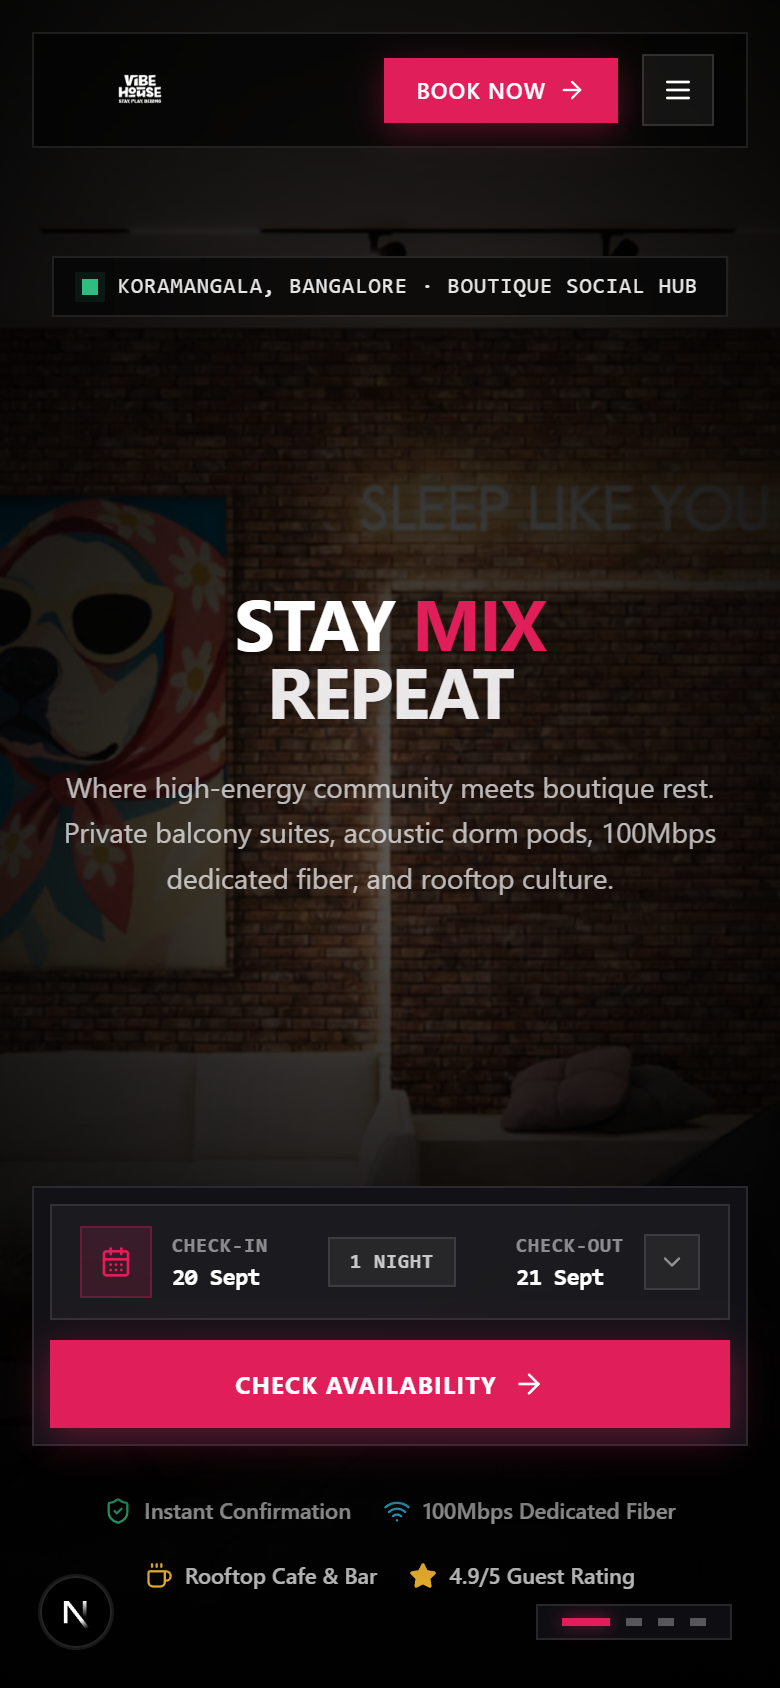
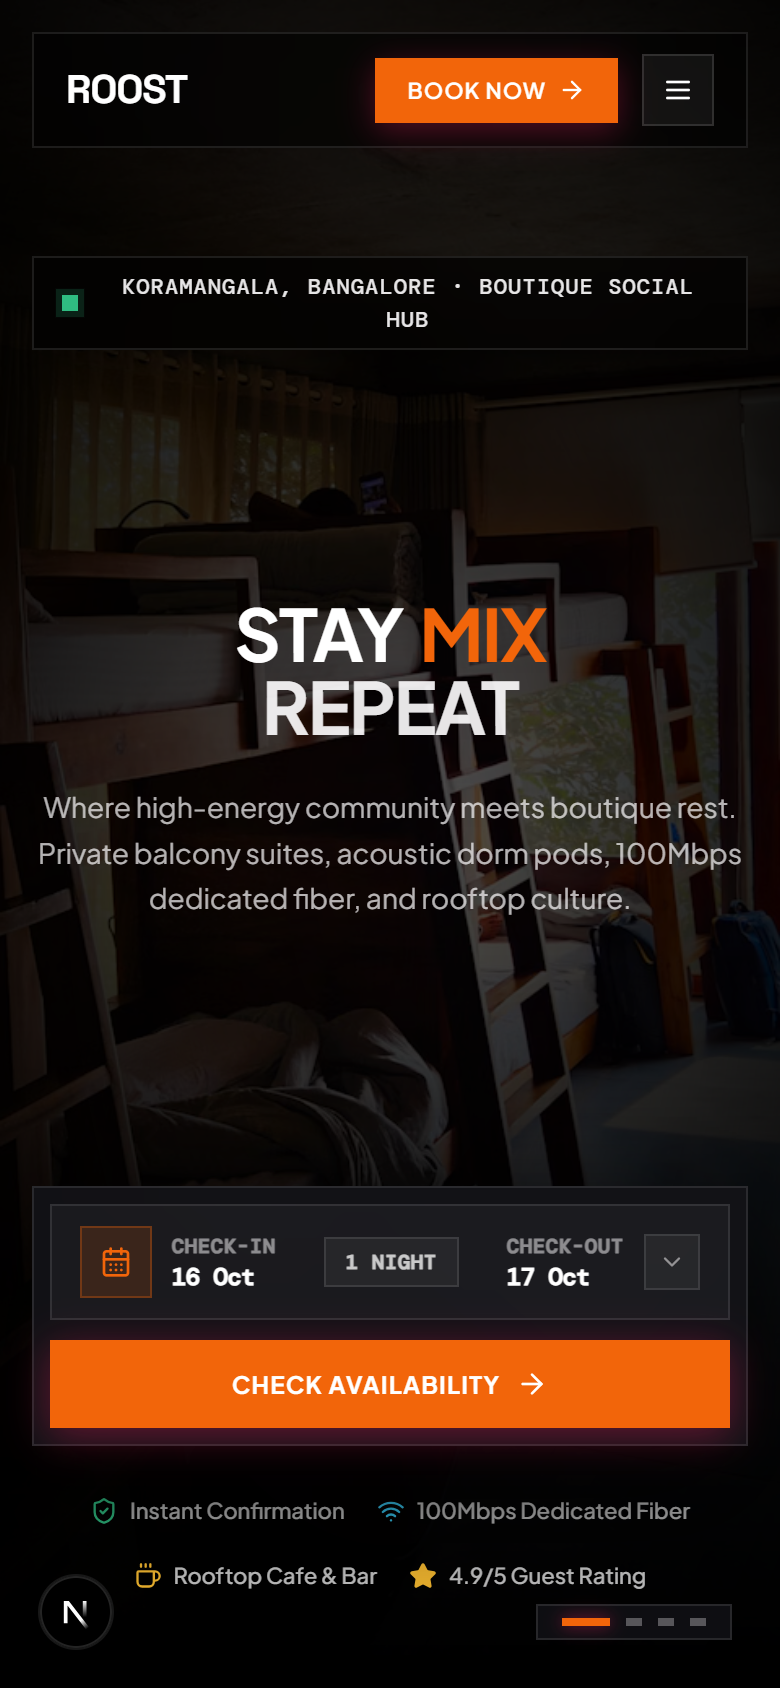
Regenerate README screenshots against the current app, not Pankaj's
Renaming portfolio-export/vibehouse -> portfolio-export/roost earlier
only moved the folder — the 14 screenshots inside it were still literal
captures of the old pink/VIBEHOUSE UI, embedded throughout the README
as if they showed the current product. They didn't.

Fixed scripts/capture_portfolio_screenshots.mjs (its outDir still
pointed at the deleted portfolio-export/vibehouse path) and reran it
against the live app for all 9 README screenshots, plus manually
captured the 2 it doesn't cover (web check-in, digital ticket
confirmation) against a real seeded booking. Every image now shows
Roost's actual current orange/rounded UI.

Also removed 5 leftover logo image files (the old VIBEHOUSE crest +
red/white lockups, unused TDS/Buteak brand marks) — orphaned since the
nav logo became a text wordmark — and dropped the README header's
<img> reference to the deleted crest file.

diff --git a/README.md b/README.md
@@ -1,7 +1,5 @@
 <div align="center">
 
-<img src="./portfolio-export/roost/images/logo-crest.png" width="96" alt="Roost Logo" style="filter: drop-shadow(0 0 24px rgba(255, 203, 69, 0.25));" />
-
 # ROOST
 
 ### High-Energy Coliving & Hostel Ecosystem. Neo-Brutalist Precision.
